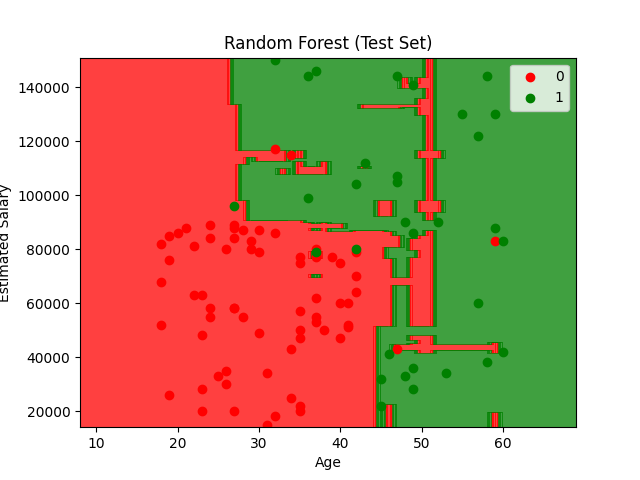
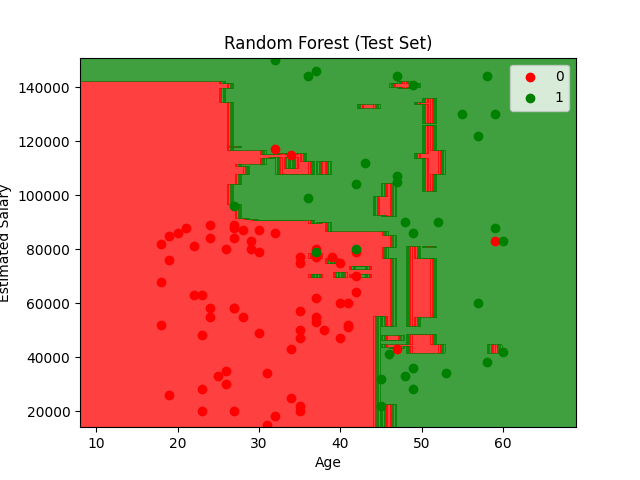
Use entropy for the criterion.  Use 100 decision trees in the forest.

diff --git a/MachineLearning/Classification/RandomForestClassification/random_forest_classification.py b/MachineLearning/Classification/RandomForestClassification/random_forest_classification.py
@@ -44,8 +44,9 @@ print()
 
 # Create and train Random Forest model
 ## Use 10 trees in the forest
+## Use entropy to measure the quality of the split.
 from sklearn.ensemble import RandomForestClassifier
-classifier = RandomForestClassifier(n_estimators = 10, random_state = 0)
+classifier = RandomForestClassifier(n_estimators = 100, criterion = 'entropy', random_state = 0)
 classifier.fit(X_train_scaled, Y_train)
 
 # Predict if-purchase for 30 year old customer earning $87,000
